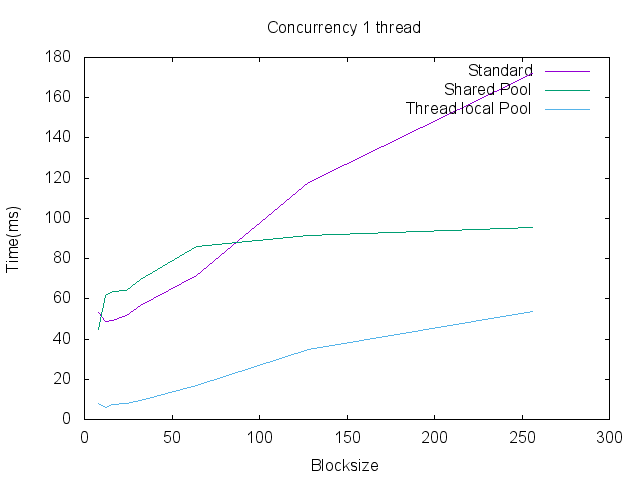
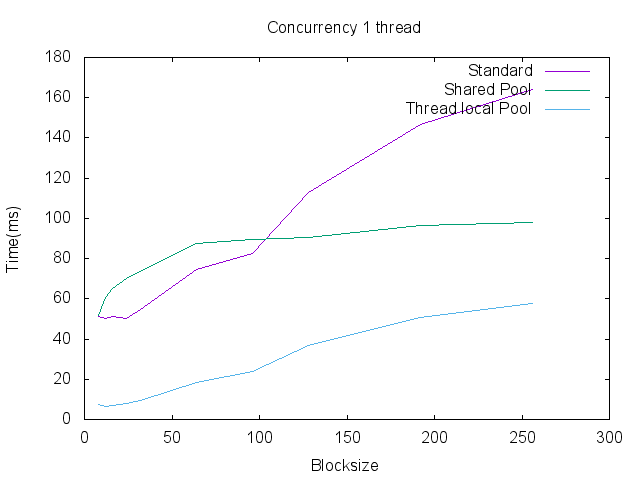
Fixed profiling pool thread test and added script for processing profile data into graph

diff --git a/src/core/subsystem/testing/SSPoolThreadingTest.h b/src/core/subsystem/testing/SSPoolThreadingTest.h
@@ -50,7 +50,7 @@ private:
 		for ( int i = 0; i < m_NrOfThreads; ++i ) {
 			threads[i].join();
 		}
-		AddProfileTime( l_ConcurrencySharedName + rToString( allocationSize) );
+		AddProfileTime( l_ConcurrencySharedName + "," + rToString( allocationSize) );
 	}
 
 	template<int allocationSize>
@@ -63,7 +63,7 @@ private:
 		for ( int i = 0; i < m_NrOfThreads; ++i ) {
 			threads[i].join();
 		}
-		AddProfileTime( l_ConcurrencyThreadLocalName + rToString( allocationSize) );
+		AddProfileTime( l_ConcurrencyThreadLocalName + "," + rToString( allocationSize) );
 	}
 
 	template<int allocationSize>
@@ -76,7 +76,7 @@ private:
 		for ( int i = 0; i < m_NrOfThreads; ++i ) {
 			threads[i].join();
 		}
-		AddProfileTime( l_ConcurrencySTDAllocName + rToString( allocationSize) );
+		AddProfileTime( l_ConcurrencySTDAllocName + "," + rToString( allocationSize) );
 	}
 
 	// Test concurrency performance for the shared pool allocator.

diff --git a/src/core/subsystem/testing/SSPoolThreadingTest.cpp b/src/core/subsystem/testing/SSPoolThreadingTest.cpp
@@ -30,7 +30,7 @@ void SSPoolThreadingTest::AddProfileTime( const std::string& profileName ) {
 	end	  = l_ExecutionEnds[0];
 	for ( uint8_t i = 1; i < m_NrOfThreads; ++i ) {
 		start = std::min( start, l_ExecutionStarts[i] );
-		end	  = std::min( end, l_ExecutionEnds[i] );
+		end	  = std::max( end, l_ExecutionEnds[i] );
 	}
 	Profiler::ProfilerManager::GetInstance().StartEntry ( profileName + "," + rToString( m_NrOfThreads ) );
 	Profiler::ProfilerManager::GetInstance().EndEntry ( end - start, "", Profiler::PROFILER_CATEGORY_STANDARD );
